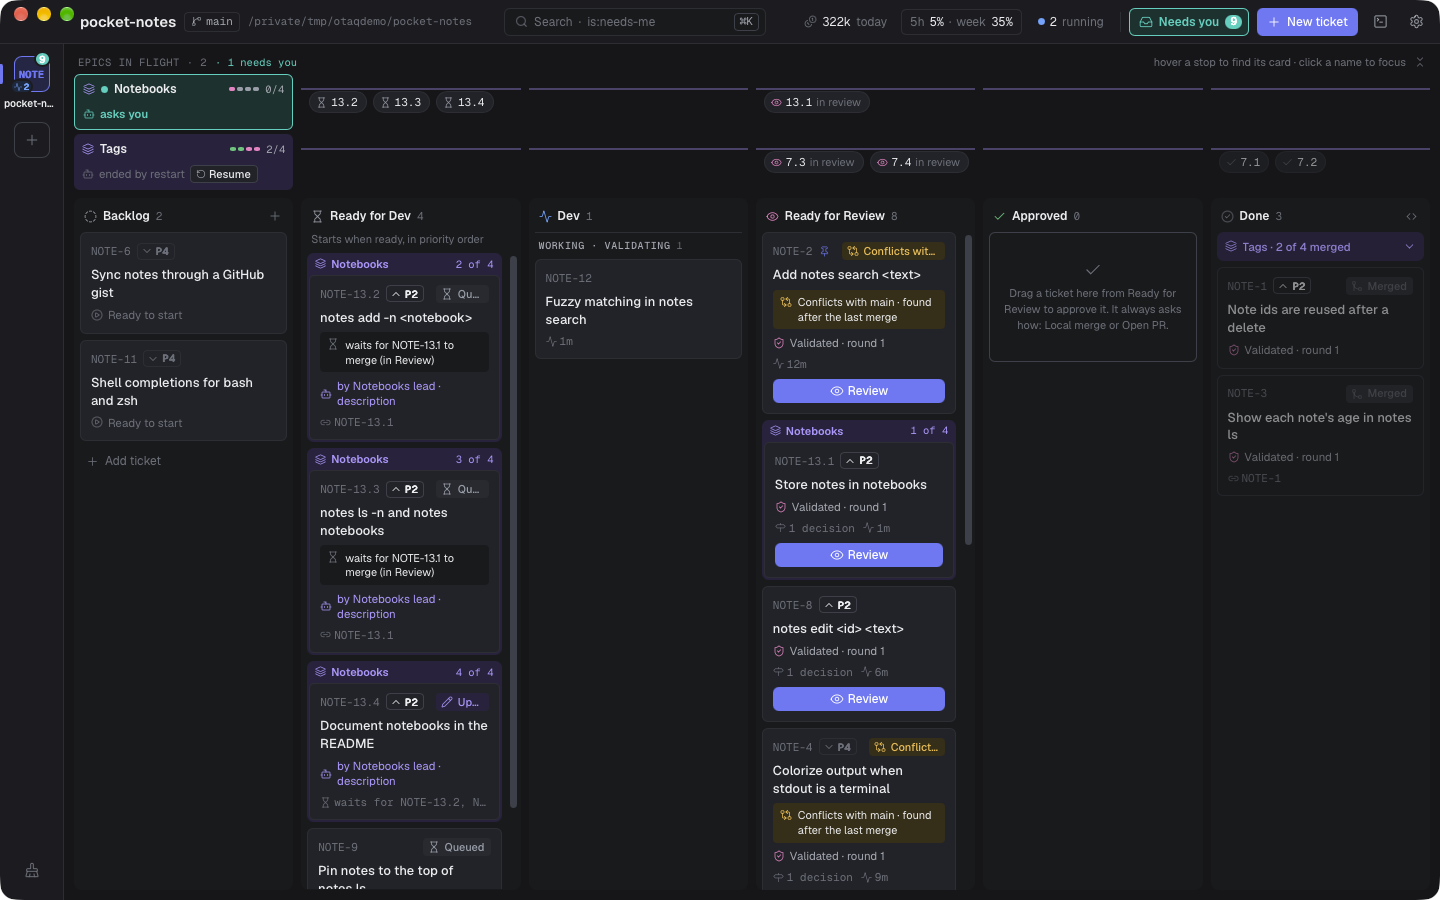
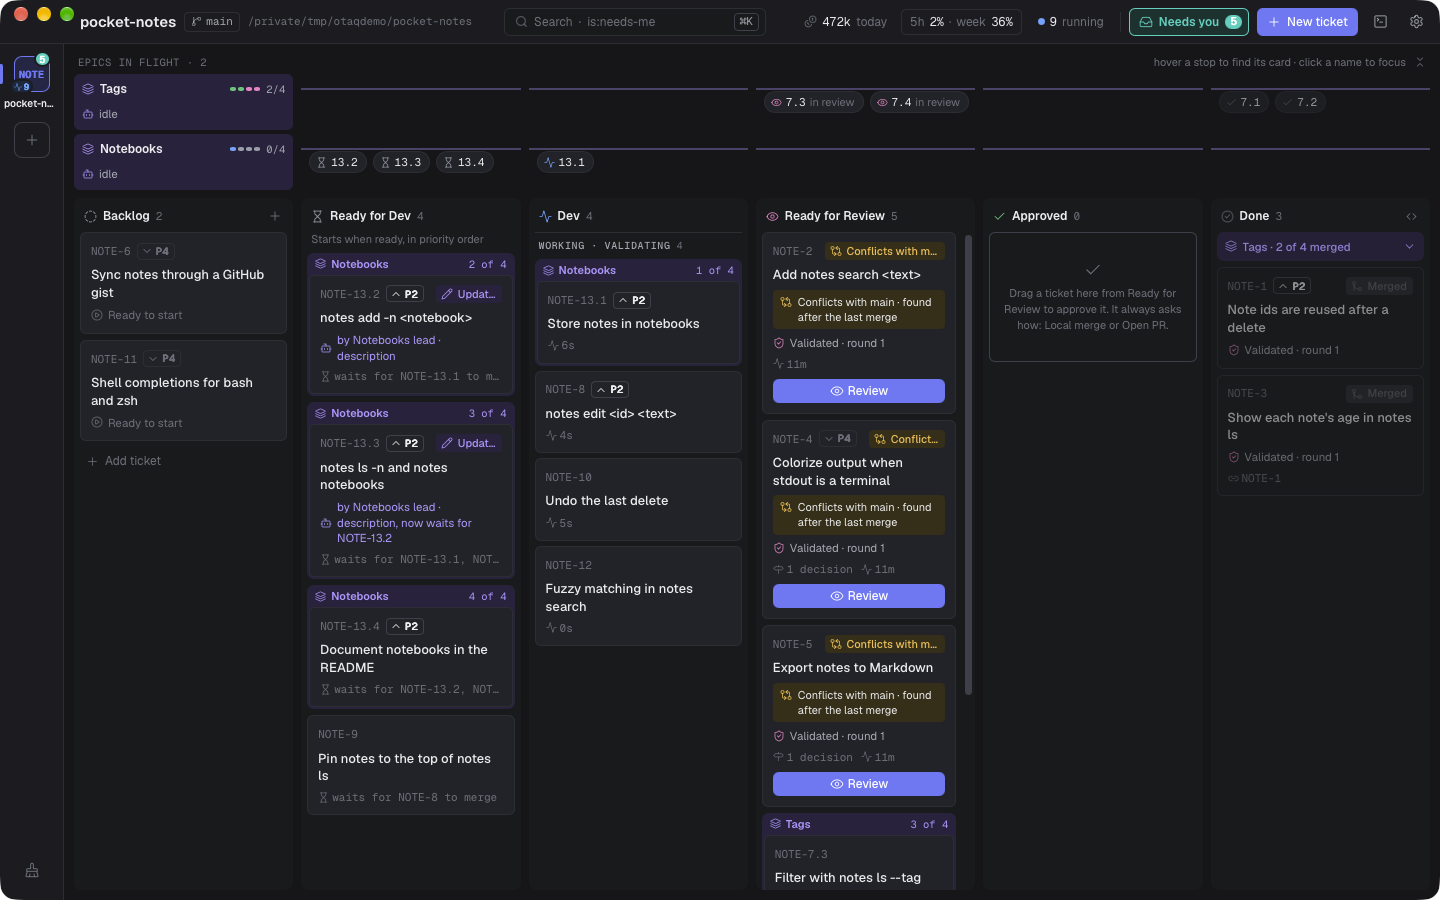
README: folder trust and refreshed screenshots
Mentions that adding a project records it as trusted in Claude Code (0085),
and updates the terminal and epic-lead captions to match the new screenshots.

Claude-Session: https://claude.ai/code/session_01GcAfrUW8kk9EQm44iq2qrw

diff --git a/README.md b/README.md
@@ -59,7 +59,8 @@ board.
 - **Agents keep running when the window is closed.** A background service owns every session; reopen the app and
   everything is where you left it.
 - **Your setup, untouched.** Otaq uses your own Claude Code settings and permission mode, your `git`, `gh` and `az`
-  logins, and never adds files to your repository.
+  logins, and never adds files to your repository. The one thing it records for Claude Code is that you trust the
+  folders you add as projects, so agents don't stop on Claude Code's trust screen.
 
 ## How it works
 
@@ -122,8 +123,9 @@ Hover a card to highlight its dependency chain. Turquoise means "needs you", mag
 
 Click a card to open its side panel, with the tabs **Terminal · Diff · Run · Shell · Ticket · History**. The terminal is
 the agent's real Claude Code session, and you can type into it at any time. Otaq never mixes its own messages into text
-you've started typing. Here the agent has finished `NOTE-5` and explains a product choice it made on its own. From any
-terminal, `otaq attach NOTE-5` opens the same session.
+you've started typing. Here the agent has finished `NOTE-4` (colorize the output) and explains a product choice it
+made on its own: dim only the id column for now, since the age column belongs to `NOTE-3`. From any terminal,
+`otaq attach NOTE-4` opens the same session.
 
 ### Review
 
@@ -143,9 +145,10 @@ checkboxes and line comments. Approve offers **Local merge** or **Open PR**.
 ![An epic's lead agent asking a planning question with answer options](docs/images/epic-lead.png)
 
 The epic panel lists the epic's tickets and their dependencies, and holds the lead's terminal. Here the lead of the
-*Notebooks* epic is planning: it has already edited two child tickets' descriptions, and now asks one question it
-can't settle from the code, with a recommended answer. You answer with a click (or in its terminal), and the children
-it refined start when the epic is dragged to Ready for Dev.
+*Notebooks* epic is planning: it has already made `NOTE-13.3` wait for `NOTE-13.2` (under **Changes by the lead**),
+and now asks a question it can't settle from the code (what plain `notes ls` should show once there are notebooks),
+with a recommended answer. You answer with a click (or in its terminal), and the children it refined start when the
+epic is dragged to Ready for Dev.
 
 ### Run and Shell
 
@@ -197,7 +200,9 @@ signed, so the first open will show the usual "unidentified developer" warning (
 ### Your first project
 
 1. Open Otaq and **add a project**: any folder that is a git repository. Otaq suggests a short key (`SHOP`) used in
-   ticket names (`SHOP-12`) and picks your base branch from the remote.
+   ticket names (`SHOP-12`) and picks your base branch from the remote. Adding a project also lets Claude Code work
+   in that folder (it records the folder as trusted, as accepting Claude Code's trust prompt would, so the project's
+   hooks and settings run).
 2. Optional, in the project's settings: a **setup** command run in every new worktree (`pnpm install`), a **run**
    command for the Run tab (`pnpm dev --port $PORT`), environment variables, and Agent instructions (for example
    "run `cargo test` before you submit").
